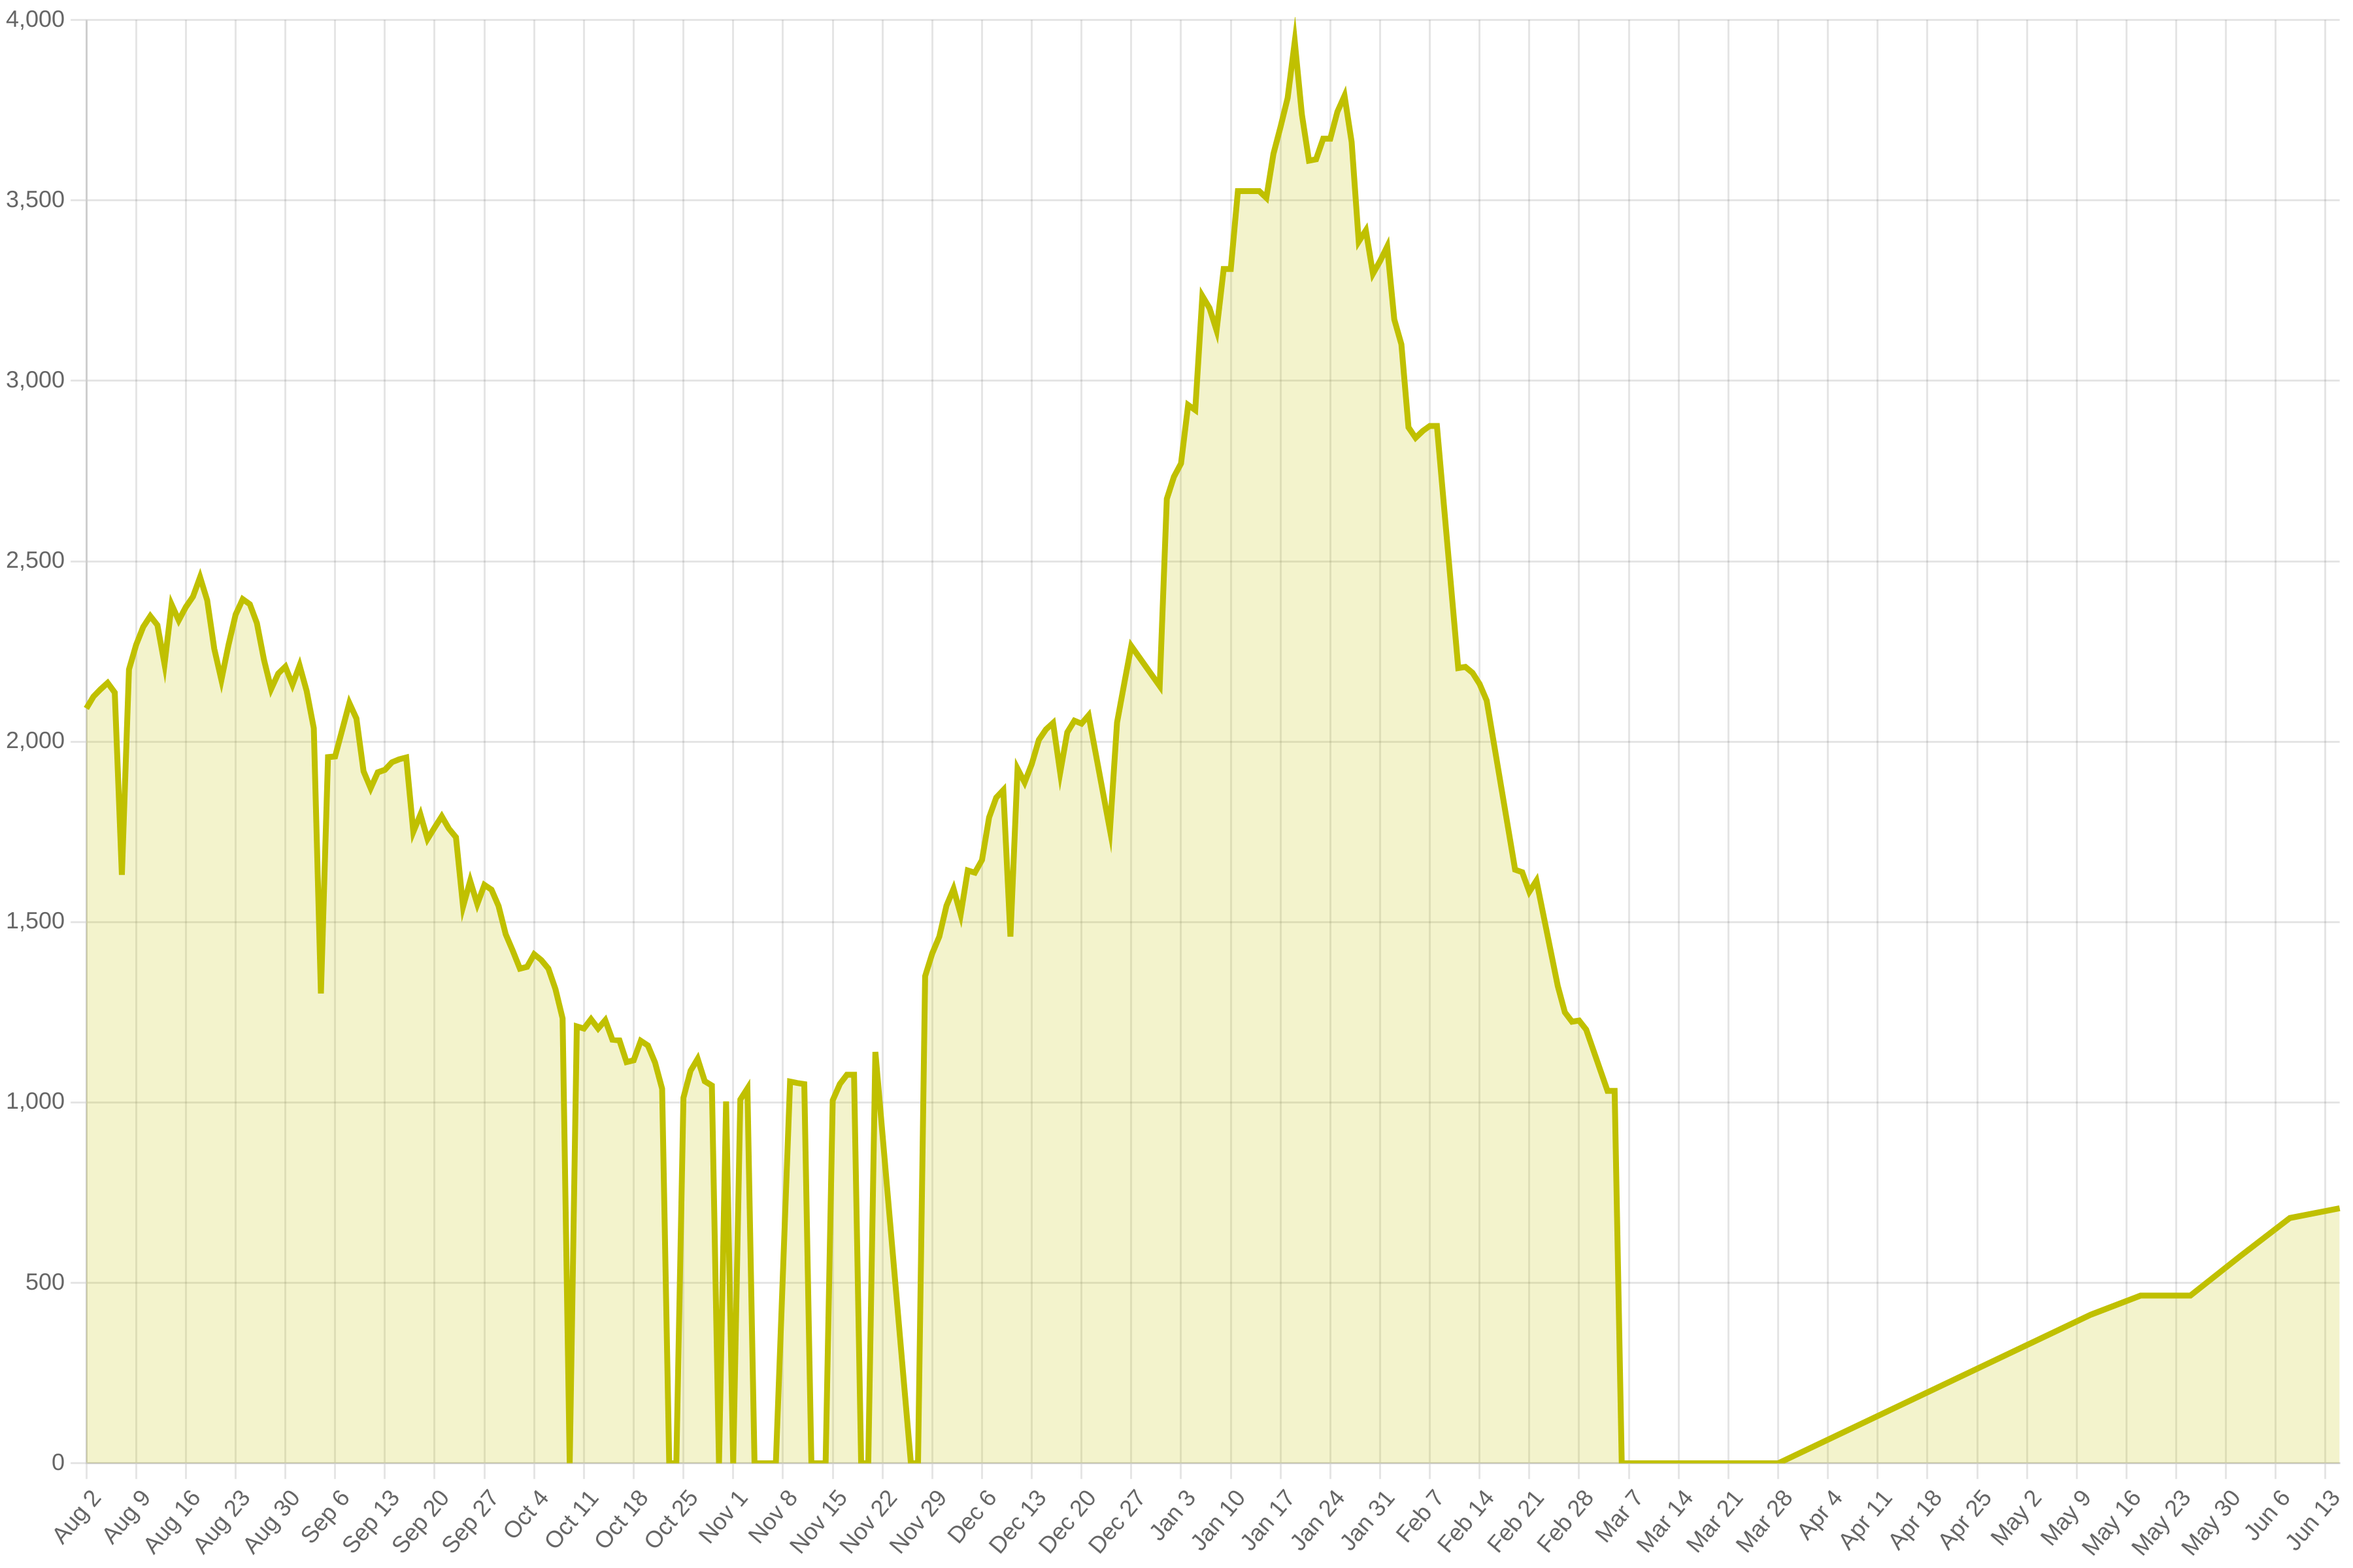
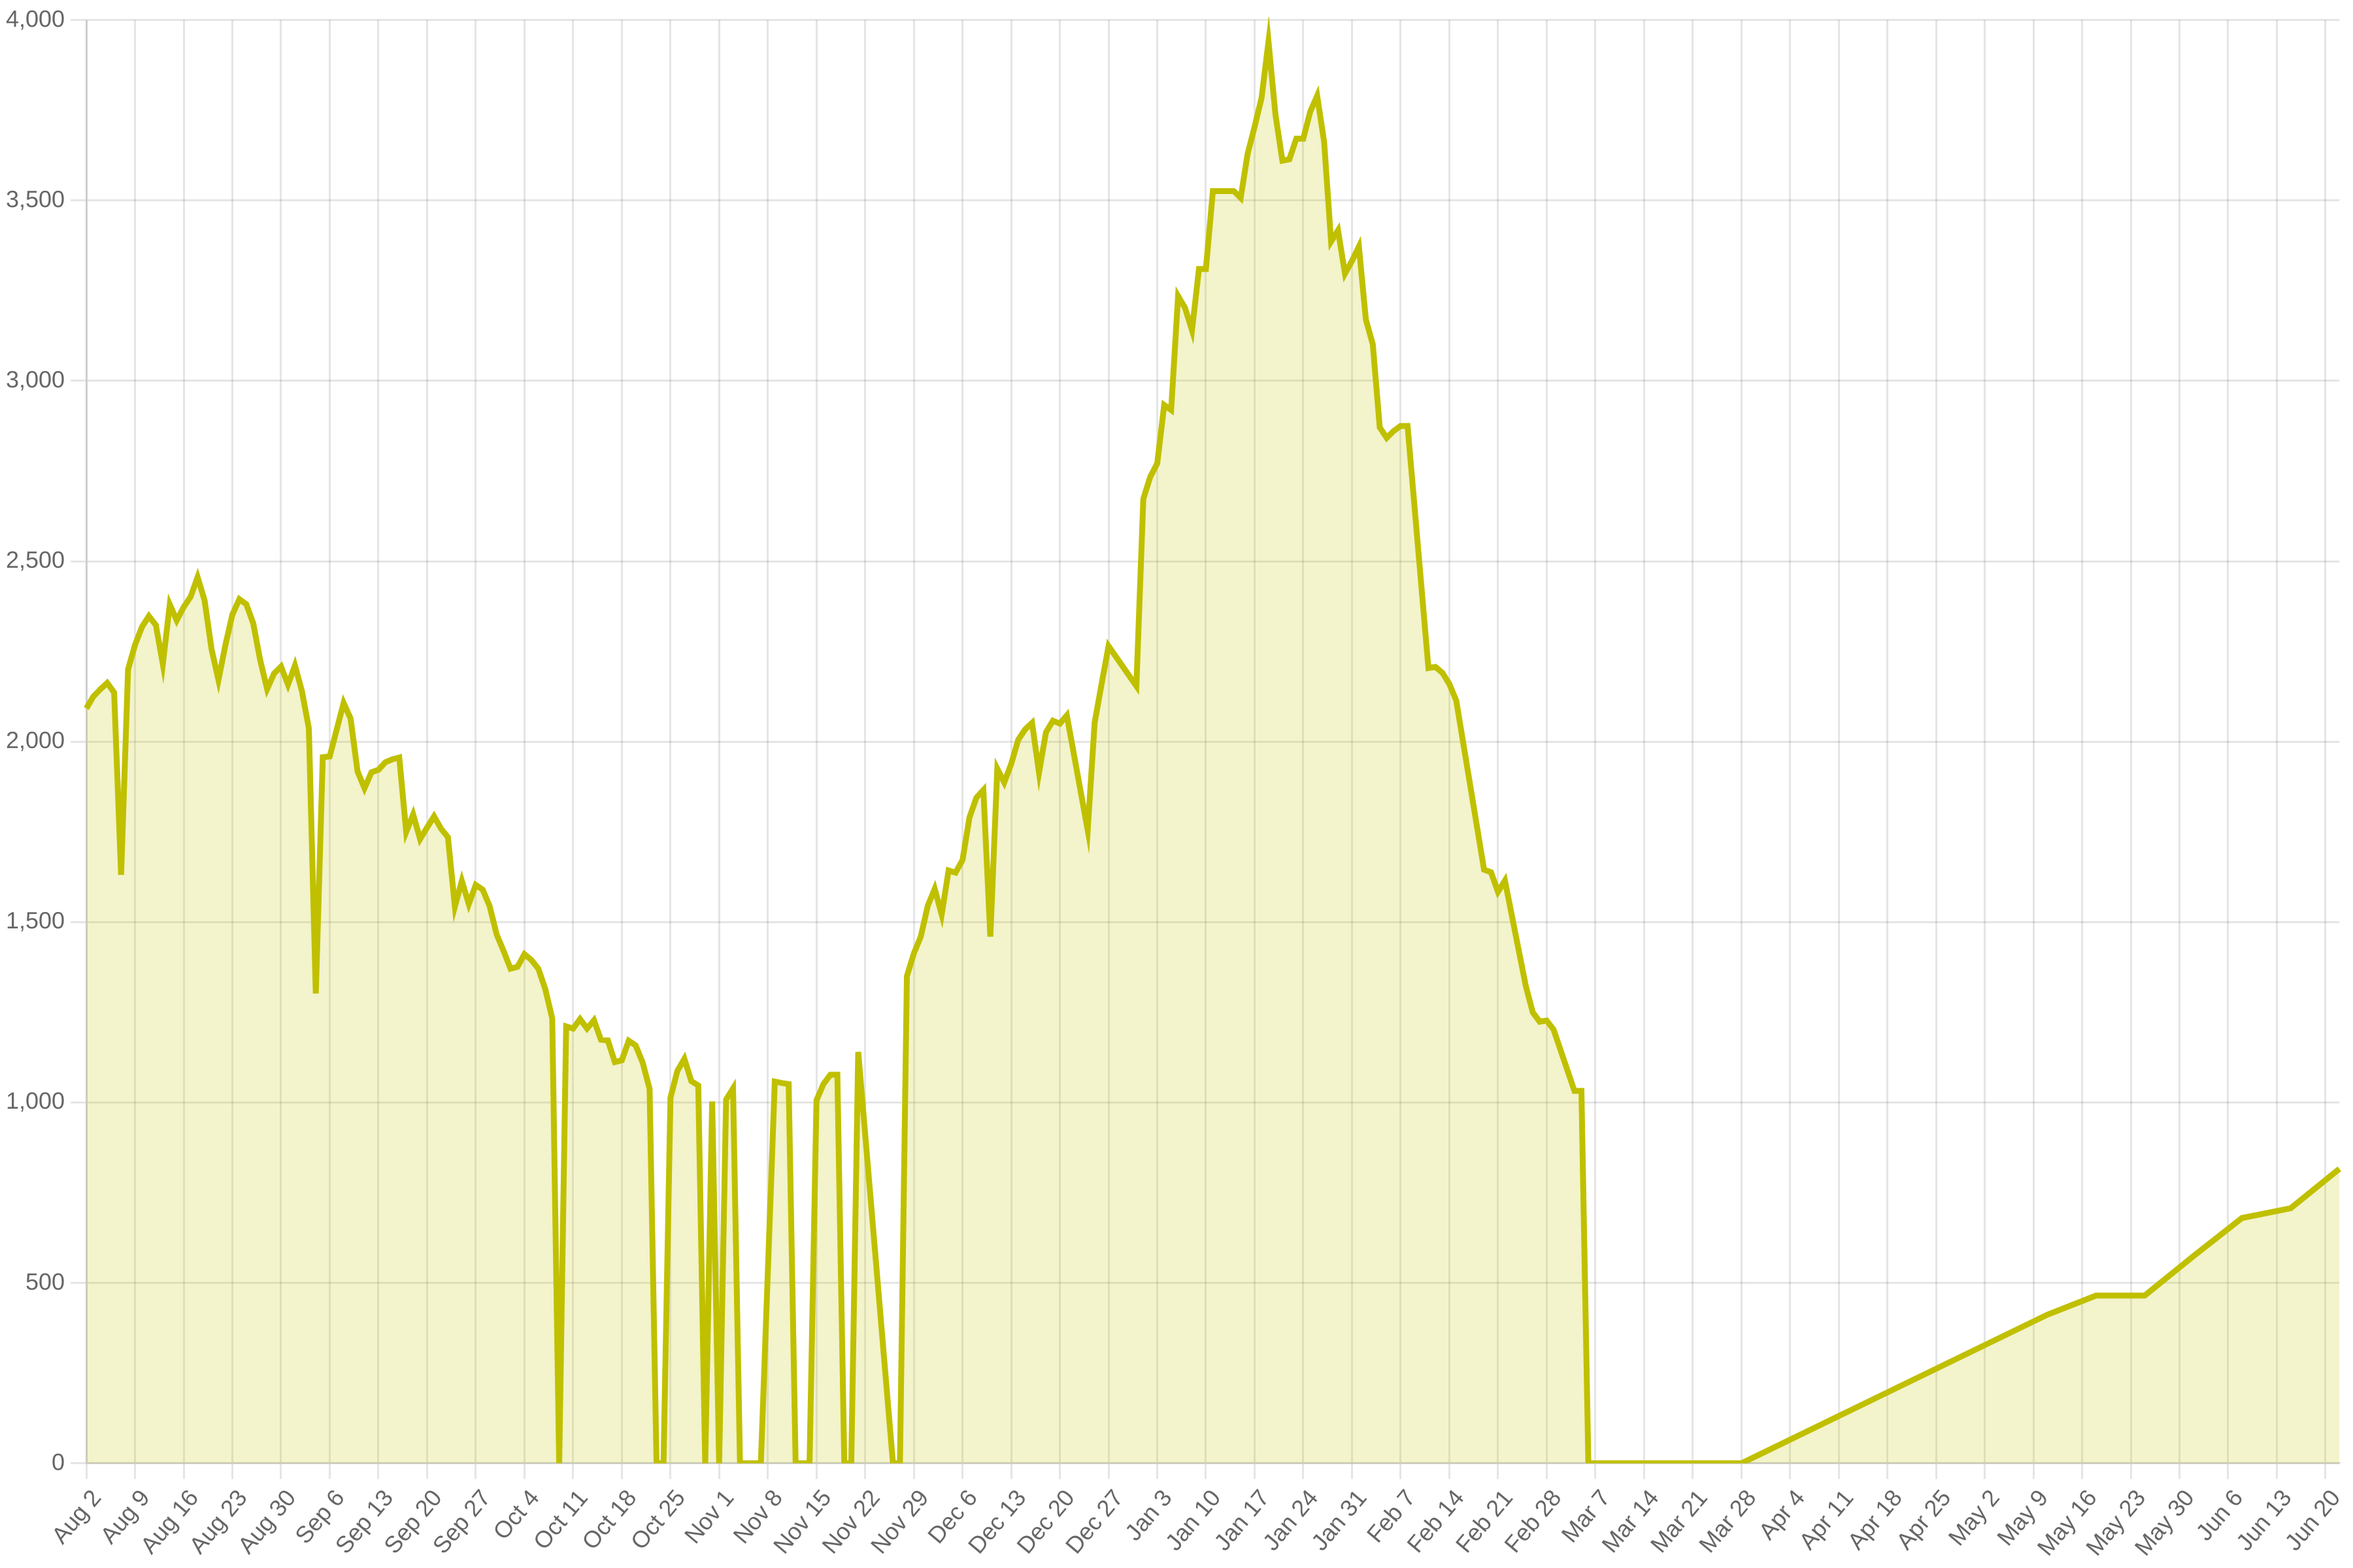
regular update

Changed region(s): [[0.0622, 0.0, 0.9956, 1.0]]

diff --git a/docs/index.html b/docs/index.html
@@ -43,10 +43,10 @@
     <main>
       <h1>Missouri COVID data</h1>
       <p>
-        The data on this page was updated <strong>Friday, June 17, 2022</strong>. For
+        The data on this page was updated <strong>Friday, June 24, 2022</strong>. For
         the values that are averages over 7 days, the start date is
-        <strong>Thursday, June 9, 2022</strong> and the end date is
-        <strong>Wednesday, June 15, 2022</strong>. The original data comes from the
+        <strong>Thursday, June 16, 2022</strong> and the end date is
+        <strong>Wednesday, June 22, 2022</strong>. The original data comes from the
         <a
           href="https://results.mo.gov/t/COVID19/views/WeeklyCOVIDMockup_16487370423730/WeeklyReport-Revised-v2?:embed=y&:showVizHome=no&:host_url=https%3A%2F%2Fresults.mo.gov%2F&:embed_code_version=3&:tabs=no&:toolbar=no&:showAppBanner=false&:display_spinner=no&:loadOrderID=0"
           >Missouri Department of Health and Senior Services</a
@@ -79,19 +79,19 @@
 
       <h2>New cases</h2>
       <p>
-        There have been <strong>9,945</strong> new cases in the
-        past 7 days, about <strong>1,421 per day</strong>.
+        There have been <strong>10,557</strong> new cases in the
+        past 7 days, about <strong>1,508 per day</strong>.
       </p>
       <img src="charts/totalPositive.png" />
 
       <h2>Outcomes</h2>
       <p>
-        There are currently 707 people hospitalized with
+        There are currently 816 people hospitalized with
         COVID-19.
       </p>
       <img src="charts/hospitalizations.png" />
 
-      <p>64 people are in intensive care.</p>
+      <p>2 people are in intensive care.</p>
       <img src="charts/icu.png" />
 
       <h2>Unavailable</h2>
